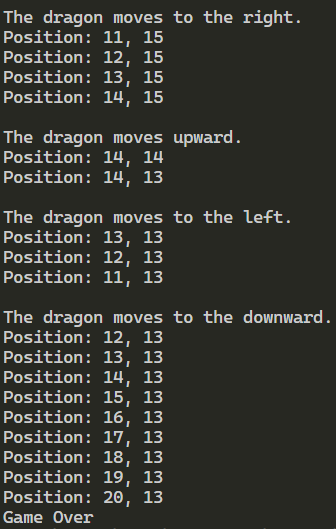
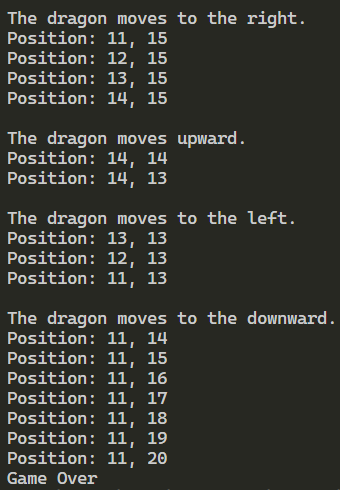
fix: moveDown()

Changed region(s): [[0.0, 0.2449, 0.9821, 1.0], [0.0, 0.0, 0.8929, 0.2143]]

diff --git a/Pertemuan 2/Dragon04.java b/Pertemuan 2/Dragon04.java
@@ -34,8 +34,8 @@ public class Dragon04 {
     }
 
     void moveDown() {
-        if (x < height) {
-            x += 1;
+        if (y < height) {
+            y += 1;
         } else {
             detectCollision(x, y);
         }
